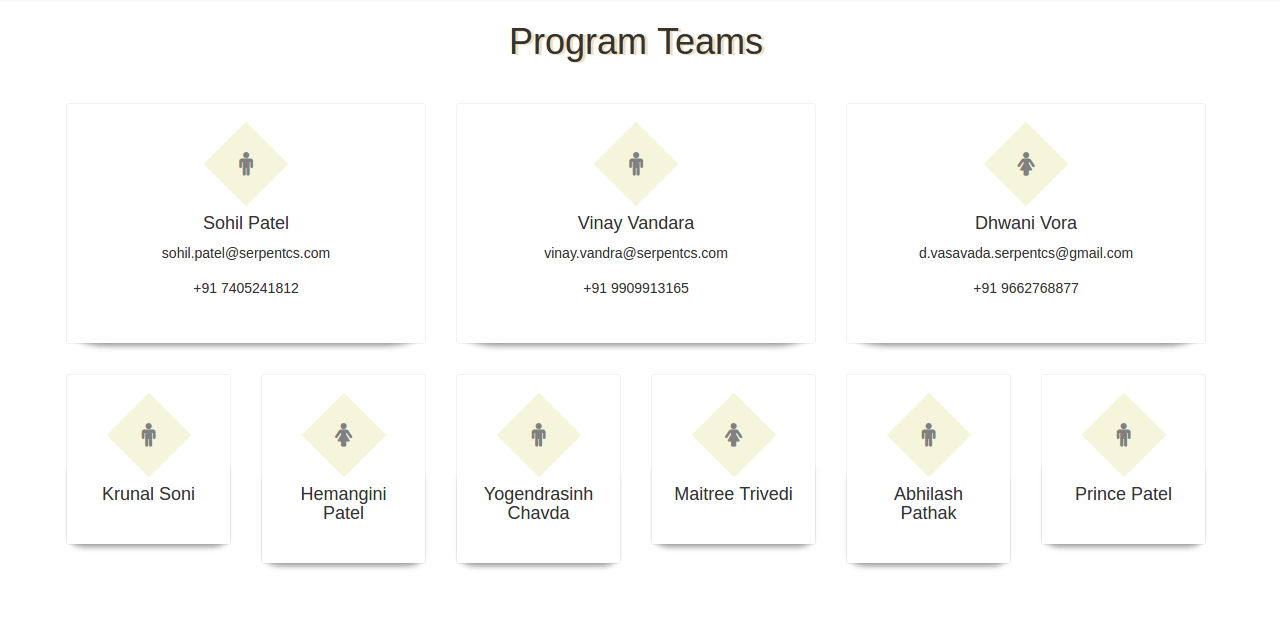
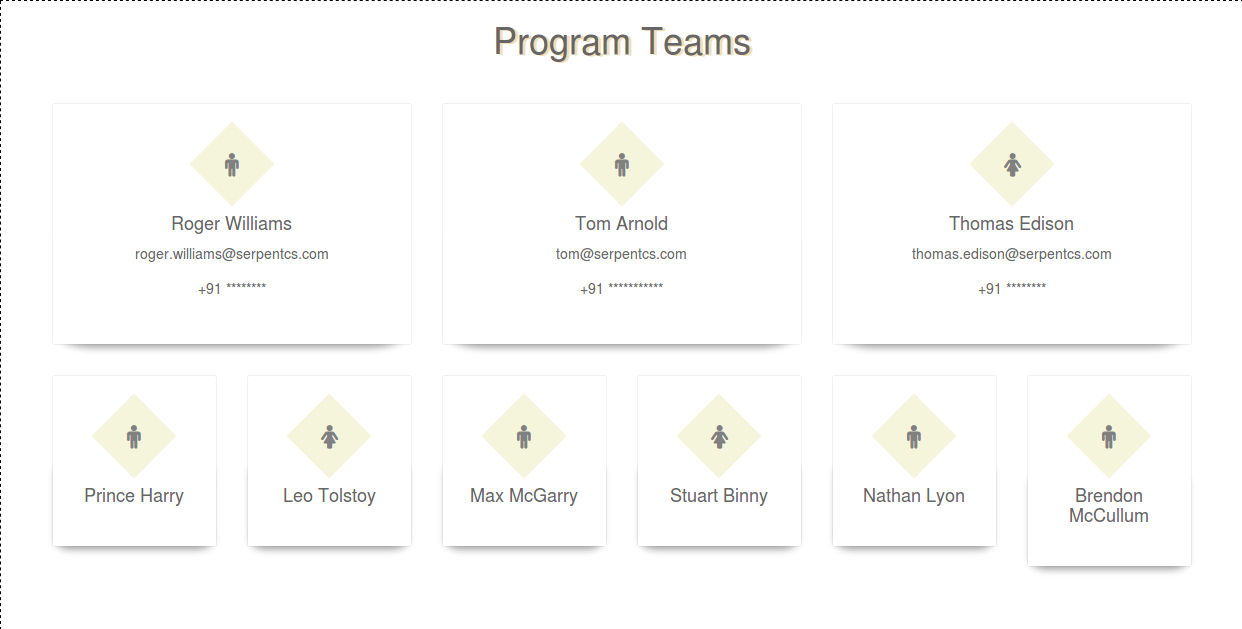
[ADD] Added Demo data & Improved index with english name

diff --git a/ipushp/models/ipushp_config.py b/ipushp/models/ipushp_config.py
@@ -3,15 +3,14 @@
 
 from odoo import models, fields
 
+
 class BusinessCategory(models.Model):
-    
     _name = 'business.category'
-    
+
     name = fields.Char('Name', required=True)
+
 
 class Relation(models.Model):
-    
     _name = 'relation.relation'
-    
-    name = fields.Char('Name', required=True)
 
+    name = fields.Char('Name', required=True)

diff --git a/ipushp/__manifest__.py b/ipushp/__manifest__.py
@@ -10,6 +10,9 @@
     'license': 'AGPL-3',
     'description': "iPushp - Employee Business Directory",
     'depends': ['hr','website'],
+    'demo': [
+        'data/ipushp_demo.xml',
+    ],
     'data': [
         'security/ipushp_security.xml',
         'security/ir.model.access.csv',

diff --git a/ipushp/models/hr.py b/ipushp/models/hr.py
@@ -42,4 +42,3 @@ class HrEmployee(models.Model):
     _inherit = 'hr.employee'
 
     ipushp_ids = fields.One2many('business.line','employee_id','iPushp')
-
